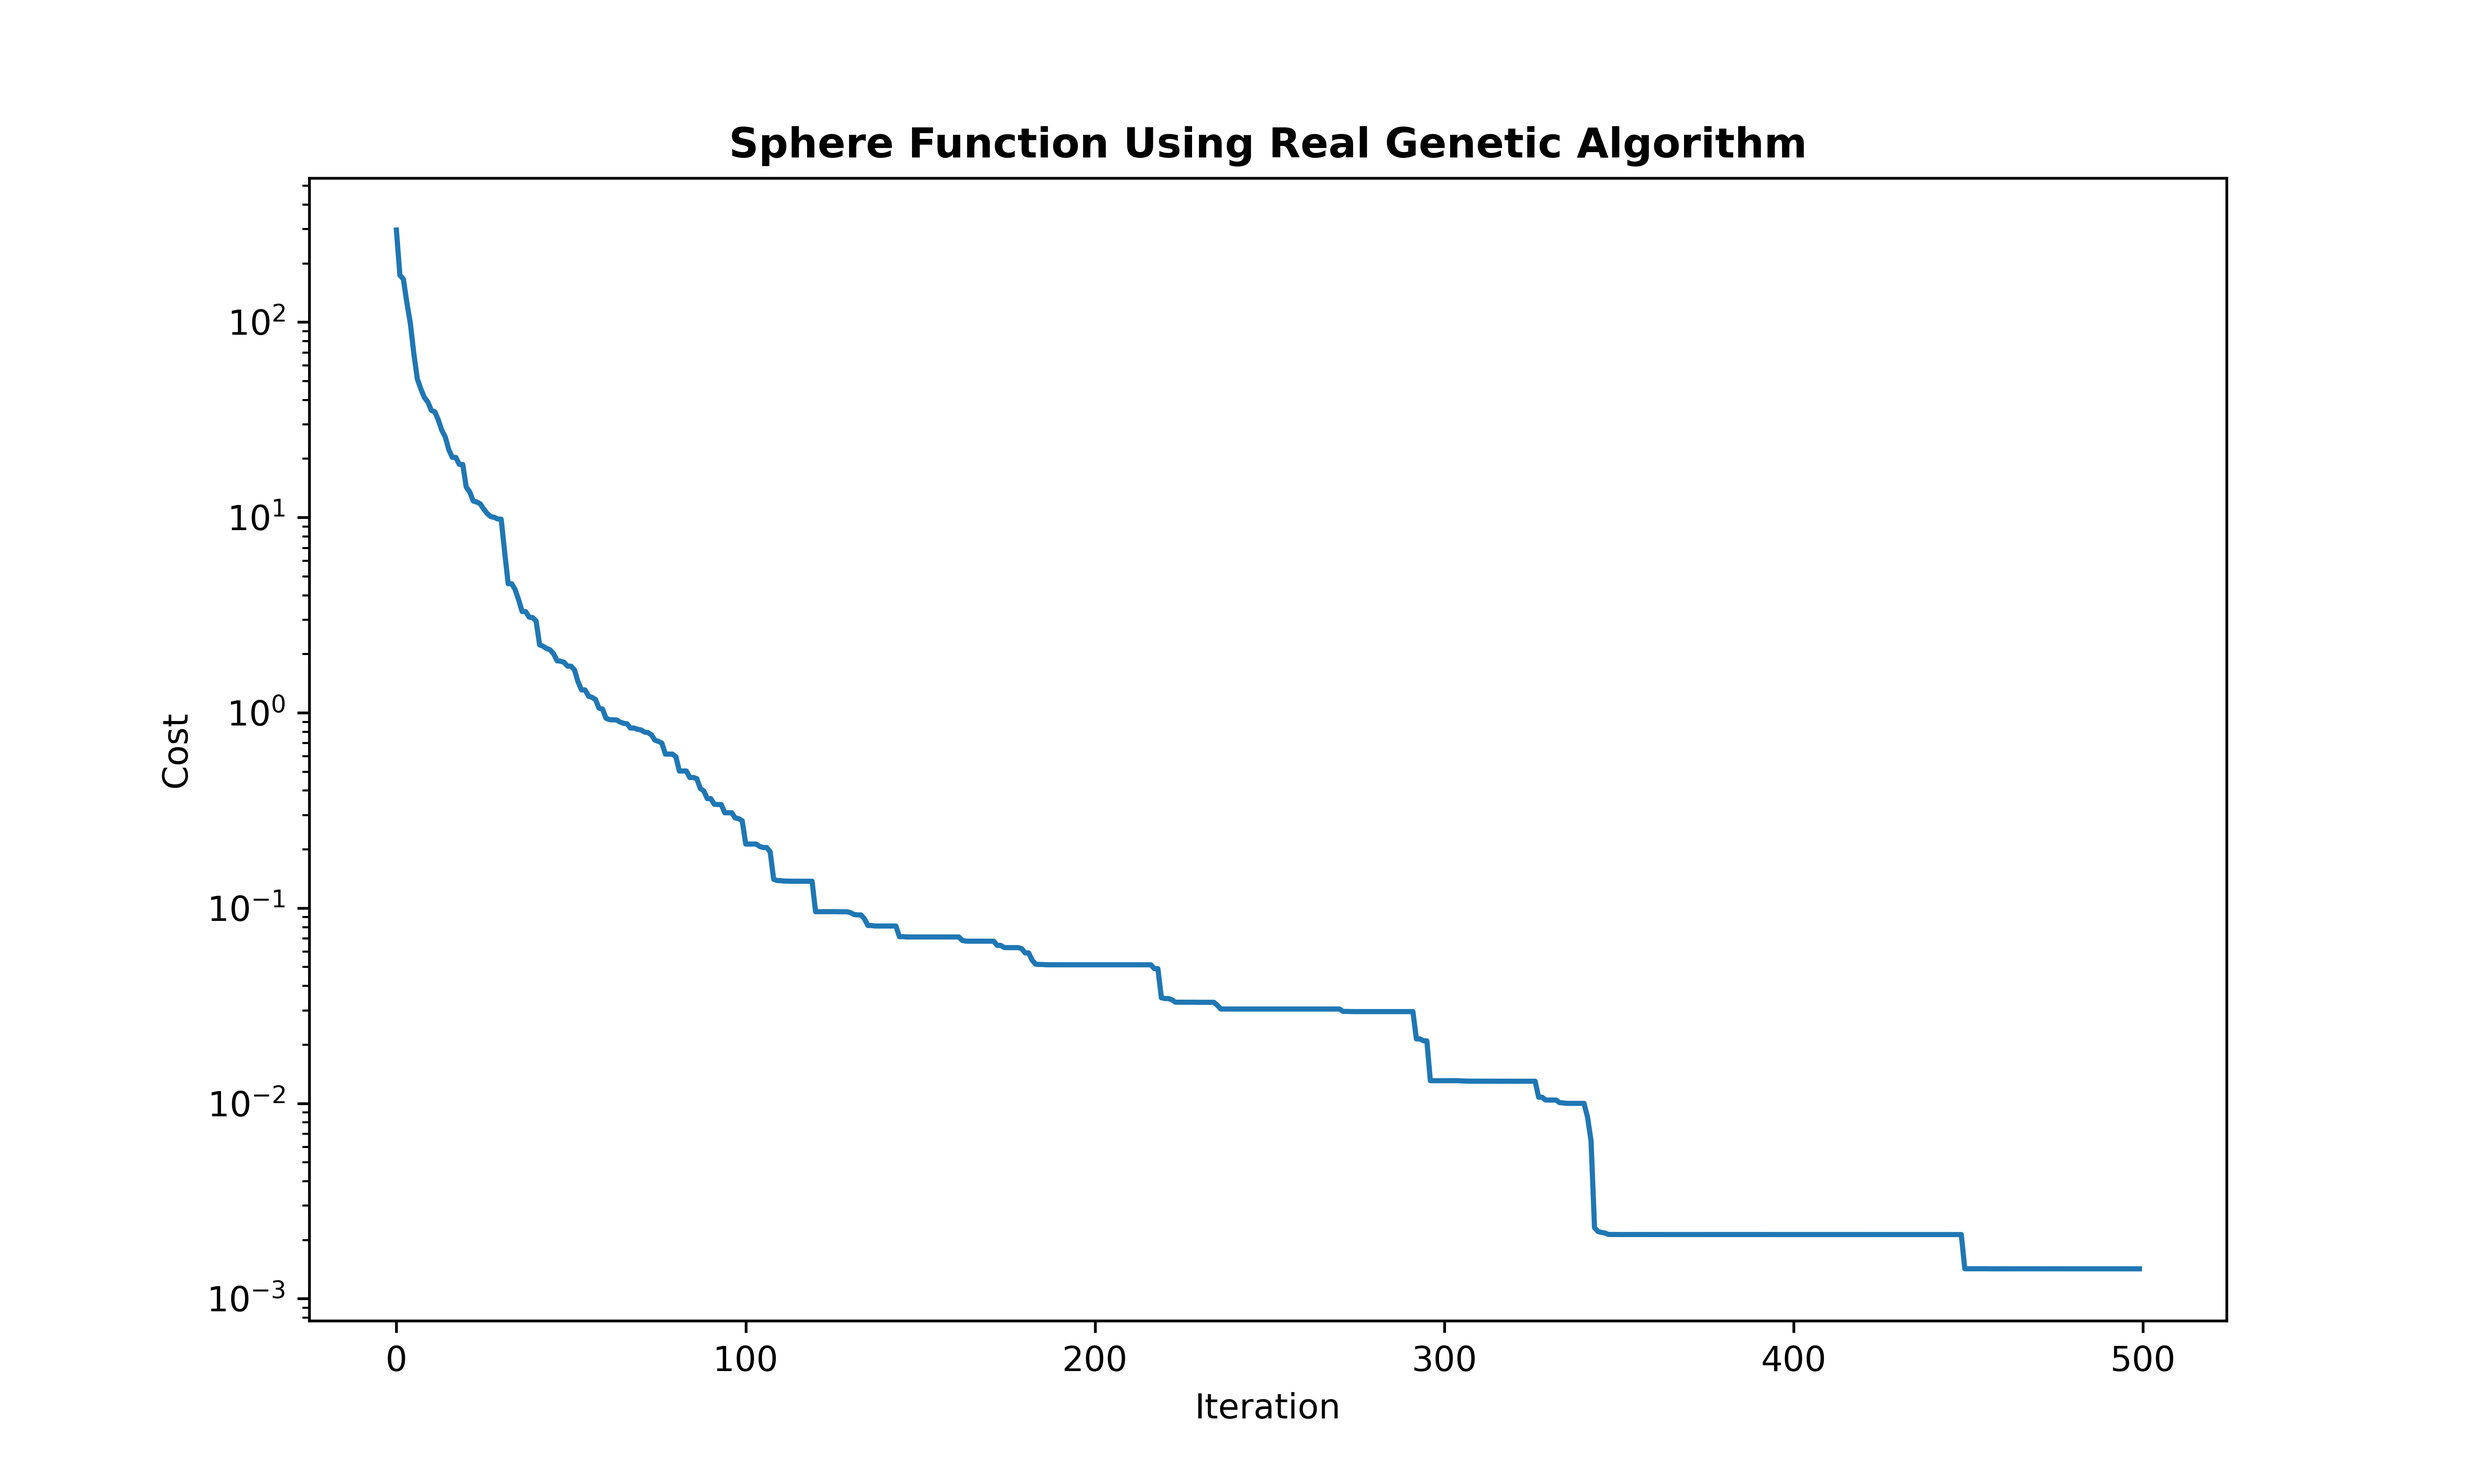
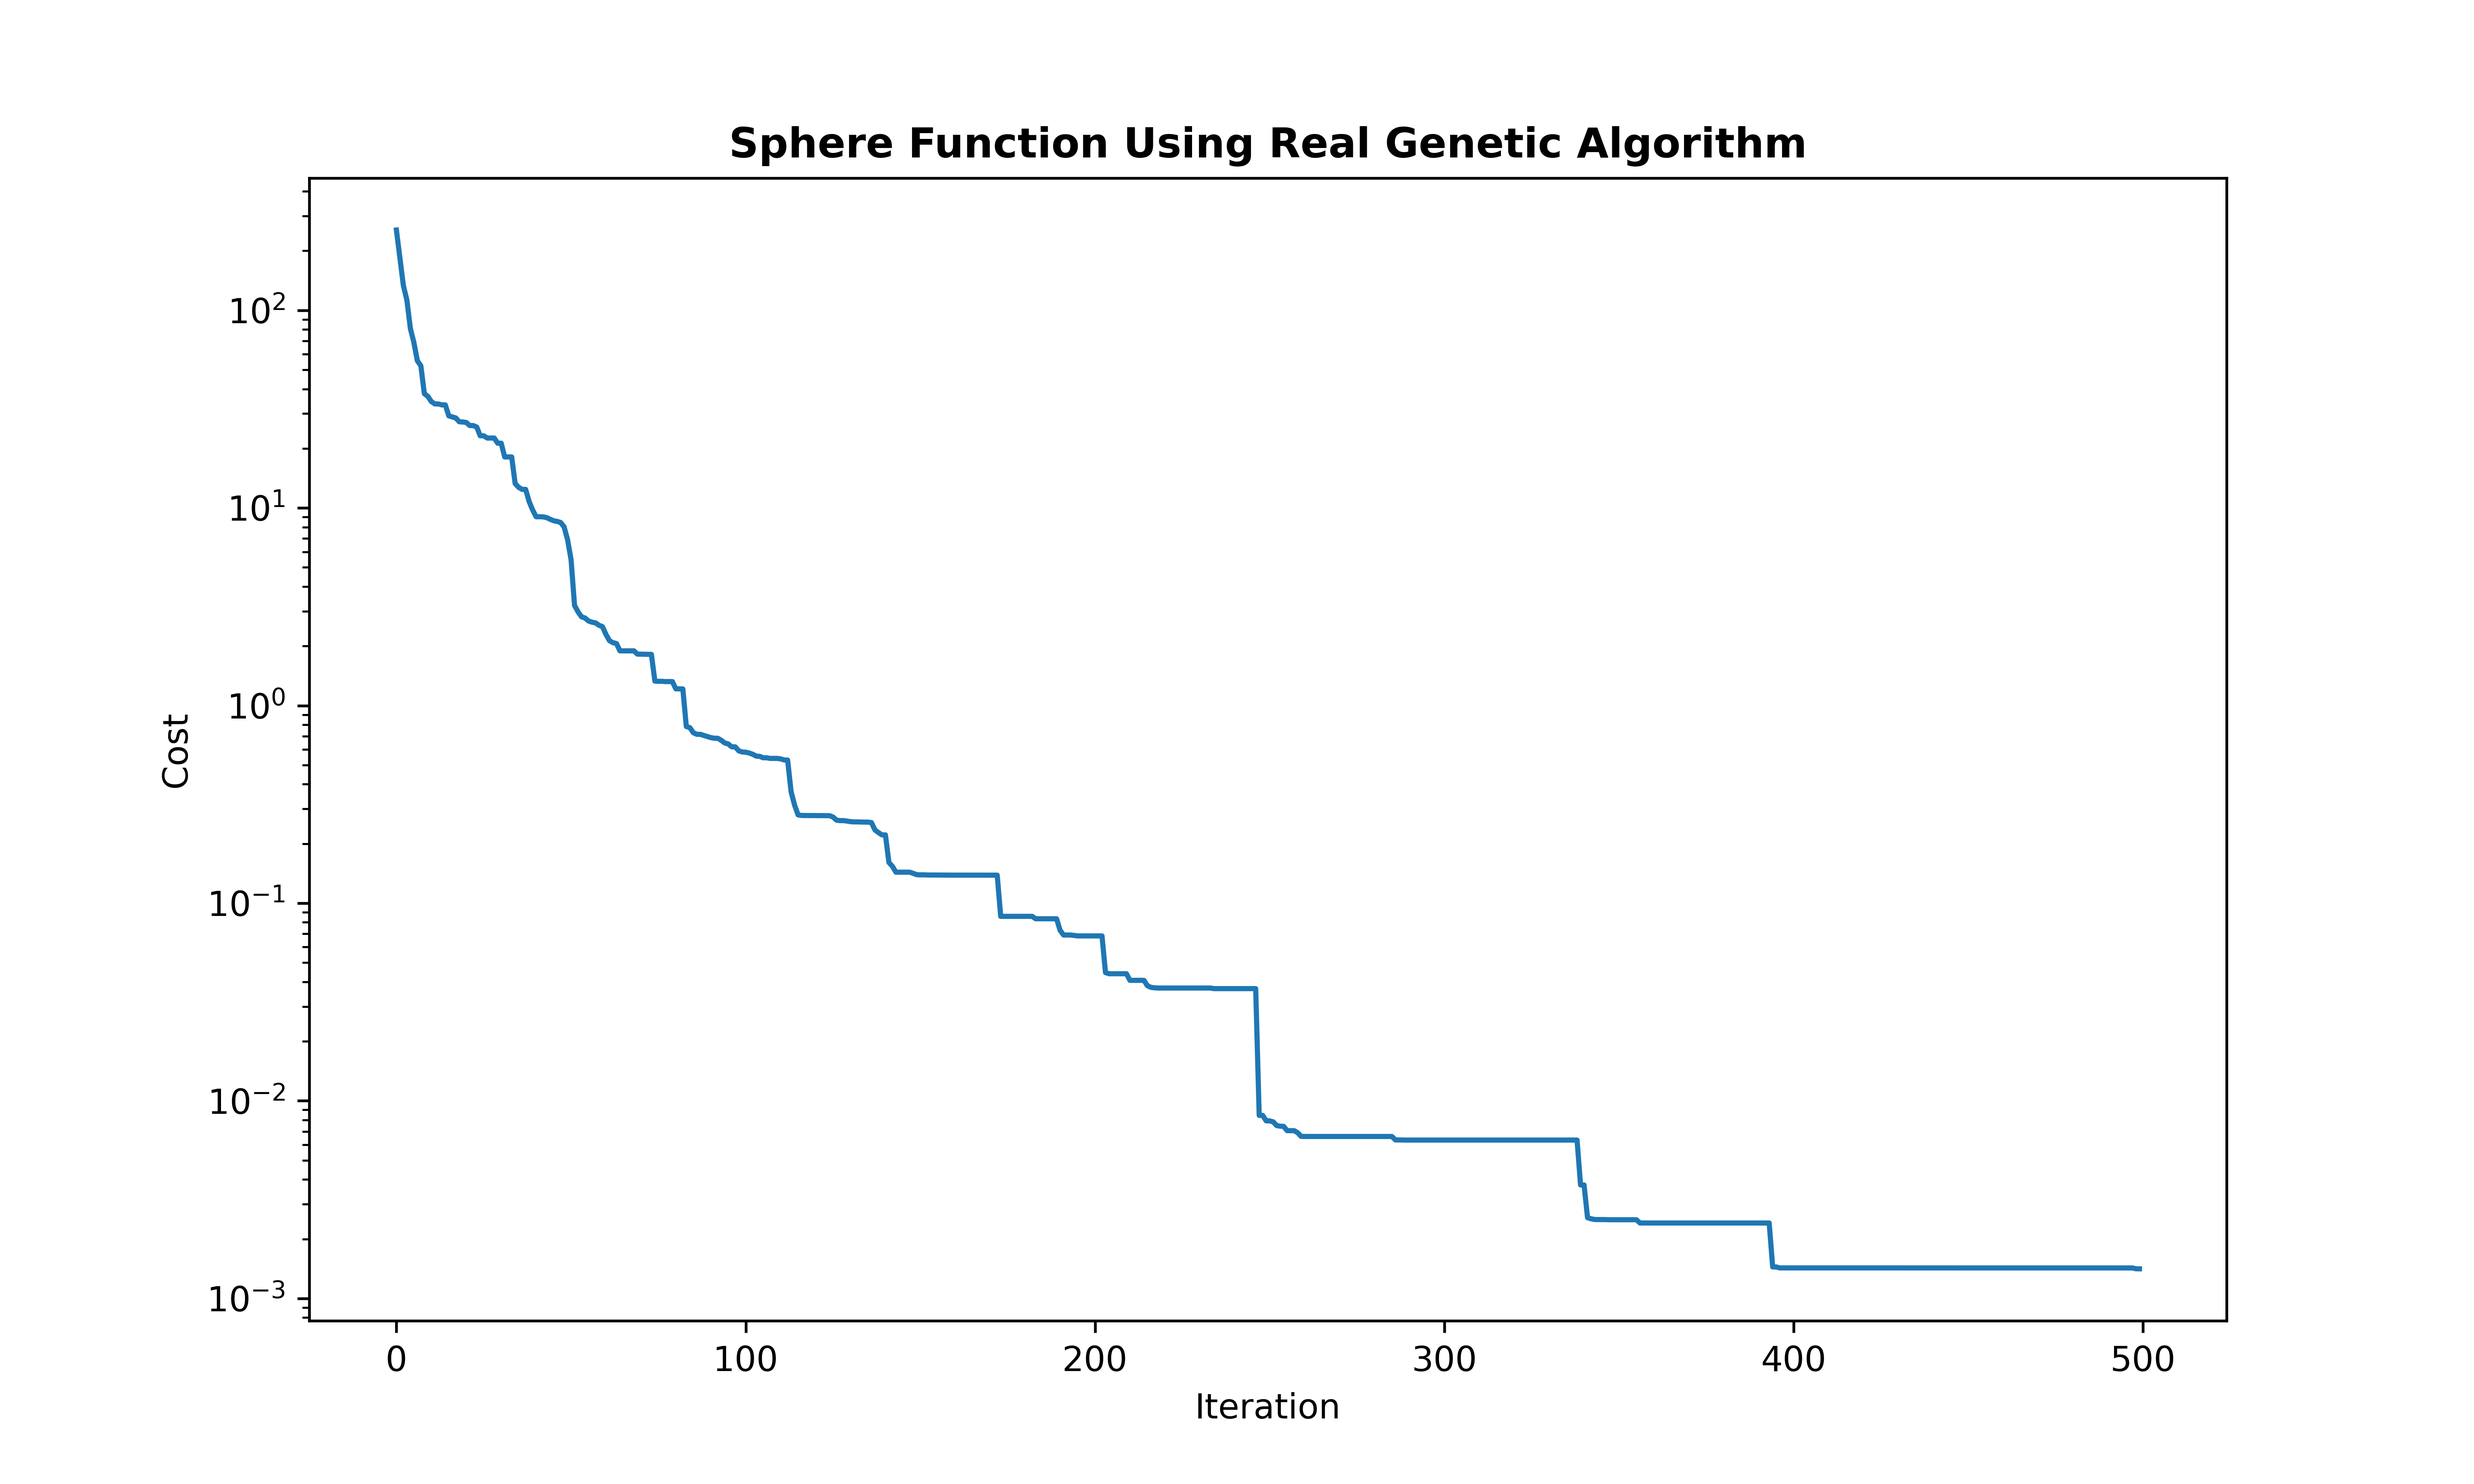
sphere problem using real ga.

diff --git a/sphere_problem/solution_method.py b/sphere_problem/solution_method.py
@@ -139,6 +139,8 @@ class GA:
 
         offspring[:, selected_index] = offspring[:, selected_index] + sigma * np.random.randn(number_mutation)
 
+        offspring = np.clip(offspring, self._min_variables, self._max_variables)
+
         return offspring
 
     def run(self):
